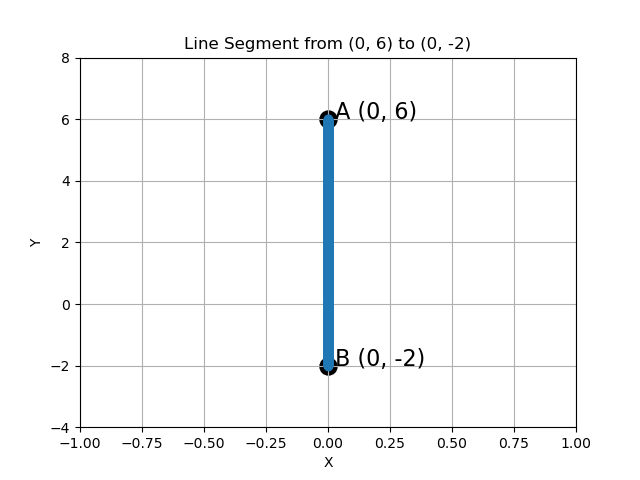
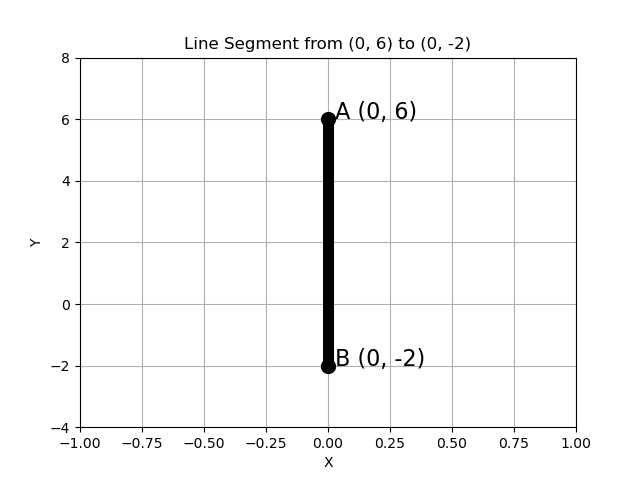
minor changes

Changed region(s): [[0.5, 0.2188, 0.5312, 0.7812]]

diff --git a/mat-geo/q2/codes/plot_line_segment.py b/mat-geo/q2/codes/plot_line_segment.py
@@ -1,3 +1,4 @@
+
 import ctypes
 import numpy as np
 import matplotlib.pyplot as plt
@@ -25,26 +26,22 @@ x = points_np[:, 0]
 y = points_np[:, 1]
 label_color = 'black'
 
+# Define points
 points = {'A (0, 6)': (0, 6), 'B (0, -2)': (0, -2)}
 
+# Plot the line segment
+plt.plot(x, y, marker='o', color='black')  # Color of the line segment
 
-# Plot points
+# Add labels for each point using plot
 for point, coord in points.items():
-    plt.scatter(*coord, label=f'{point} {coord}', s=150,color=label_color)  # s is the size of the marker
-
-# Add labels for each point
-for point, coord in points.items():
-    plt.text(coord[0], coord[1], f' {point}',color=label_color, fontsize=16)
+    plt.plot(*coord, 'o', color=label_color, markersize=10)  # Mark points
+    plt.text(coord[0], coord[1], f' {point}', color=label_color, fontsize=16)
 
 # Set the limits of the axes
 plt.xlim(-1, 1)
 plt.ylim(-4, 8)
 
-
-
-
-# Plotting the line segment
-plt.plot(x, y, marker='o')
+# Set labels and title
 plt.title(f'Line Segment from (0, 6) to (0, -2)')
 plt.xlabel('X')
 plt.ylabel('Y')
